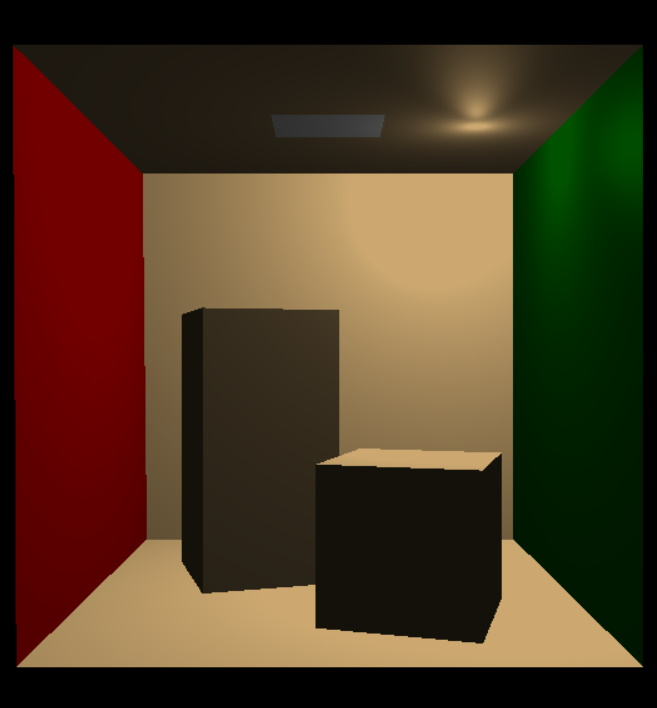
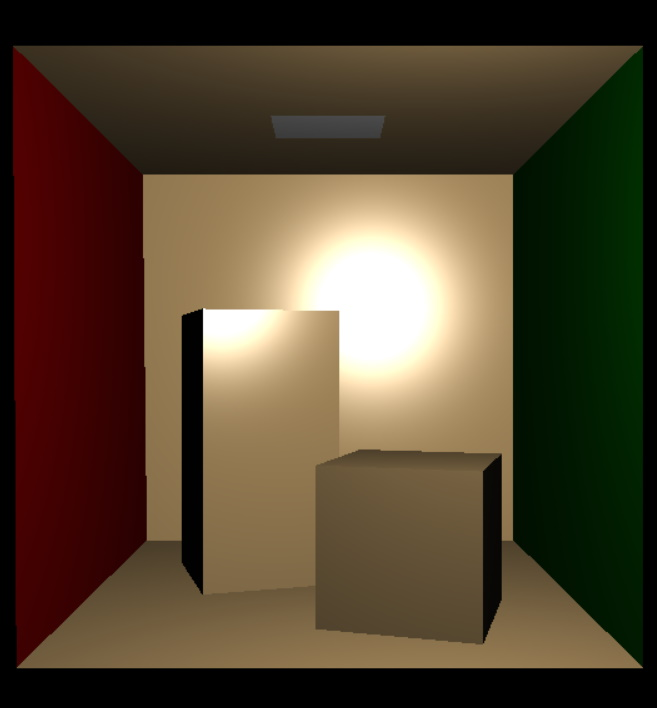
New images

diff --git a/src/Pipeline.cpp b/src/Pipeline.cpp
@@ -67,22 +67,13 @@ float4 Pipeline::PixelShader(VSOutput& psinput)
   float3 objectSpecular = { 1.0f, 1.0f, 1.0f };
 
   if (m_textures->Ka_map)
-  {
     objectAmbient = sample(m_textures->Ka_map, { m_textures->texturesWidth, m_textures->texturesHeight }, psinput.uv);
-    m_reflectance.Ka = { 1.0f, 1.0f, 1.0f };
-  }
 
   if (m_textures->Kd_map)
-  {
     objectDiffuse = sample(m_textures->Kd_map, { m_textures->texturesWidth, m_textures->texturesHeight }, psinput.uv);
-    m_reflectance.Kd = { 1.0f, 1.0f, 1.0f };
-  }
 
   if (m_textures->Ks_map)
-  {
     objectSpecular = sample(m_textures->Ks_map, { m_textures->texturesWidth, m_textures->texturesHeight }, psinput.uv);
-    m_reflectance.Ks = { 1.0f, 1.0f, 1.0f };
-  }
 
   float3 ambient = m_reflectance.Ka * lightAmbient * objectAmbient;
 

diff --git a/src/main.cpp b/src/main.cpp
@@ -31,7 +31,7 @@ public:
     m_pipeline = make_unique<Pipeline>();
     m_loader = make_unique<objl::Loader>();
 
-    string directory = "cornell";
+    string directory = "mars";
     m_loader->LoadFile(ReturnObjPath(directory));
 
     m_depthBuffer = new float[m_screenWidth * m_screenHeight];
